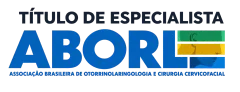
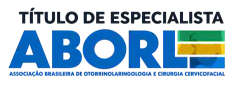
perf: defer justification tuning, lazy narrative paint, responsive procedure images
- Run paragraph justification tuning lazily: after fonts + first frame,
  one paragraph per idle callback, only near the viewport; hero paragraph
  excluded so LCP text never changes after paint.
- Run ProcedureNarrative scroll measurements only while the section is
  within one viewport of the screen.
- Add 480/720/960w WebP variants with srcset/sizes and real width/height
  for the exam and surgery narrative photos.
- Recompress the ABORL 240w seal and remove the unreferenced 1.6 MB PNG.

Local Lighthouse mobile (median of 5): score 95 -> 97, LCP 2.69 -> 2.49 s,
SI 3.34 -> 3.00 s, TBT 75 -> 21 ms, forced reflow 322 -> 0 ms.

diff --git a/src/App.tsx b/src/App.tsx
@@ -5,7 +5,7 @@ import {
   PhoneCall, Play, ShieldCheck, Sparkles, X,
 } from 'lucide-react'
 import { contactText, showPrivacyPreferences, siteConfig, trackEvent, whatsappUrl } from './config'
-import { tuneJustification } from './justifyTune'
+import { startJustificationTuning } from './justifyTune'
 
 const HYPHEN_VOWELS = 'aeiouáàâãéèêíïóòôõúüAEIOUÁÀÂÃÉÈÊÍÏÓÒÔÕÚÜ'
 const isHyphenVowel = (c: string | undefined) => !!c && HYPHEN_VOWELS.includes(c)
@@ -54,6 +54,7 @@ const examChapters = [
     title: 'Exames Otorrinolaringológicos',
     intro: [],
     image: '/images/procedimentos-videoendoscopia-nasossinusal-sao-luis.webp',
+    imageSize: [1448, 1086],
     imageAlt: 'Dr. Evaldo realiza videoendoscopia nasossinusal durante atendimento',
     imagePosition: '75% 32%',
     items: [
@@ -66,6 +67,7 @@ const examChapters = [
     title: 'Exames Otoneurológicos',
     intro: [],
     image: '/images/procedimentos-avaliacao-otoneurologica-sao-luis.webp',
+    imageSize: [1448, 1086],
     imageAlt: 'Dr. Evaldo realiza avaliação otoneurológica em paciente em São Luís',
     imagePosition: '48% center',
     items: [
@@ -79,6 +81,7 @@ const examChapters = [
     title: 'Procedimentos Ambulatoriais',
     intro: [],
     image: '/images/procedimentos-manobra-epley-vppb-ampliada.webp',
+    imageSize: [1122, 1402],
     imageAlt: 'Dr. Evaldo realiza manobra de Epley para vertigem posicional em paciente',
     imagePosition: '60% center',
     items: [
@@ -100,6 +103,7 @@ const coblationChapters = [
       'Agende uma consulta para saber se essa tecnologia pode ser indicada para o seu caso.',
     ],
     image: '/images/procedimentos-coblation-amigdalas-adenoide-sao-luis.webp',
+    imageSize: [1025, 1535],
     imageAlt: 'Dr. Evaldo, otorrinolaringologista em São Luís, com instrumento utilizado em procedimentos de Coblation®',
     imagePosition: '50% 35%',
     video: {
@@ -117,6 +121,7 @@ const surgeryChapters = [
     title: 'Cirurgias Otorrinolaringológicas',
     intro: [],
     image: '/images/procedimentos-ambiente-cirurgico.webp',
+    imageSize: [1087, 1447],
     imageAlt: 'Dr. Evaldo realiza cirurgia em ambiente cirúrgico',
     imagePosition: '50% 38%',
     items: [
@@ -129,6 +134,7 @@ const surgeryChapters = [
     title: 'Timpanotomia e Timpanoplastia',
     intro: ['Cirurgias realizadas para tratar diferentes alterações do ouvido médio e da membrana do tímpano.'],
     image: '/images/procedimentos-timpanotomia-timpanoplastia-sao-luis.webp',
+    imageSize: [1280, 960],
     imageAlt: 'Dr. Evaldo realiza cirurgia otológica com auxílio de microscópio',
     imagePosition: '70% center',
     items: [
@@ -141,6 +147,7 @@ const surgeryChapters = [
     title: 'Cirurgias da Garganta e da Laringe',
     intro: [],
     image: '/images/procedimentos-cirurgia-otorrinolaringologica-maranhao.webp',
+    imageSize: [937, 1678],
     imageAlt: 'Procedimento cirúrgico de otorrinolaringologia realizado pelo Dr. Evaldo',
     imagePosition: '50% 34%',
     items: [
@@ -914,6 +921,7 @@ type NarrativeChapter = {
   readonly title: string
   readonly intro: readonly string[]
   readonly image: string
+  readonly imageSize: readonly [number, number]
   readonly imageAlt: string
   readonly imagePosition: string
   readonly video?: {
@@ -923,6 +931,14 @@ type NarrativeChapter = {
   }
   readonly items: readonly (readonly [string, string])[]
 }
+
+// Variantes geradas como `<nome>-480.webp`, `-720.webp` e `-960.webp` (apenas larguras menores que o original).
+const NARRATIVE_IMAGE_WIDTHS = [480, 720, 960]
+const narrativeImageSizes = '(min-width: 1150px) 460px, (min-width: 768px) 40vw, min(66vw, 300px)'
+const narrativeImageSrcSet = ({ image, imageSize: [width] }: NarrativeChapter) => [
+  ...NARRATIVE_IMAGE_WIDTHS.filter((variant) => variant < width - 100).map((variant) => `${image.replace(/\.webp$/, `-${variant}.webp`)} ${variant}w`),
+  `${image} ${width}w`,
+].join(', ')
 
 function LazyProcedureVideo({ src, liteSrc, poster, ariaLabel, objectPosition, active, preloadOnDesktopSelector, preloadOnMobileSelector }: { src: string; liteSrc: string; poster: string; ariaLabel: string; objectPosition?: string; active: boolean; preloadOnDesktopSelector?: string; preloadOnMobileSelector?: string }) {
   const networkTier = useVideoNetworkTier()
@@ -1166,12 +1182,16 @@ function ProcedureNarrative({ id, variant, chapters, message, preloadVideoOnDesk
       imageElements.forEach((image, index) => image.classList.toggle('is-active', index === activeIndex))
     }
 
+    // A medicao pesada (paint) so roda com a secao a ate uma tela de distancia.
+    let near = false
+    let warmed = false
+    let warmFrame = 0
     const schedulePaint = () => {
-      if (!animationFrame) animationFrame = window.requestAnimationFrame(paint)
+      if (near && !animationFrame) animationFrame = window.requestAnimationFrame(paint)
     }
     const remeasure = () => {
       measure()
-      paint()
+      if (near) paint()
     }
     const onResize = () => {
       const viewportHeight = getViewportHeight()
@@ -1184,16 +1204,33 @@ function ProcedureNarrative({ id, variant, chapters, message, preloadVideoOnDesk
       remeasure()
     }
 
+    const proximity = new IntersectionObserver(([entry]) => {
+      near = entry.isIntersecting
+      if (!near) return
+      if (animationFrame) {
+        window.cancelAnimationFrame(animationFrame)
+        animationFrame = 0
+      }
+      paint()
+      if (!warmed) {
+        warmed = true
+        warmFrame = window.requestAnimationFrame(() => {
+          warmFrame = window.requestAnimationFrame(() => section.classList.remove('is-cold'))
+        })
+      }
+    }, { rootMargin: '100% 0px' })
+
     section.classList.add('is-cold', 'is-enhanced')
     measure()
-    paint()
+    proximity.observe(section)
     window.addEventListener('scroll', schedulePaint, { passive: true })
     window.addEventListener('resize', onResize, { passive: true })
     window.visualViewport?.addEventListener('resize', onResize, { passive: true })
     desktopQuery.addEventListener('change', remeasure)
-    window.requestAnimationFrame(() => window.requestAnimationFrame(() => section.classList.remove('is-cold')))
 
     return () => {
+      proximity.disconnect()
+      if (warmFrame) window.cancelAnimationFrame(warmFrame)
       window.removeEventListener('scroll', schedulePaint)
       window.removeEventListener('resize', onResize)
       window.visualViewport?.removeEventListener('resize', onResize)
@@ -1224,7 +1261,7 @@ function ProcedureNarrative({ id, variant, chapters, message, preloadVideoOnDesk
               preloadOnDesktopSelector={preloadVideoOnDesktop}
               preloadOnMobileSelector={preloadVideoOnMobile}
             /> : <picture className={`procedure-narrative__image ${index === 0 ? 'is-active' : ''}`} key={`${chapter.title}-${chapter.image}`}>
-              <img src={chapter.image} alt={chapter.imageAlt} width={variant === 'exams' ? 1440 : 1006} height={variant === 'exams' ? 1080 : 1788} loading="lazy" decoding="async" style={{ objectPosition: chapter.imagePosition }} />
+              <img src={chapter.image} srcSet={narrativeImageSrcSet(chapter)} sizes={narrativeImageSizes} alt={chapter.imageAlt} width={chapter.imageSize[0]} height={chapter.imageSize[1]} loading="lazy" decoding="async" style={{ objectPosition: chapter.imagePosition }} />
             </picture>)}
           </figure>
         </div>
@@ -1232,7 +1269,7 @@ function ProcedureNarrative({ id, variant, chapters, message, preloadVideoOnDesk
         <div className="procedure-narrative__chapters">
           {chapters.map((chapter, index) => <article className={`procedure-narrative__chapter ${index === 0 ? 'is-active' : ''}`} key={chapter.title}>
             <figure className="procedure-narrative__inline-figure" aria-hidden="true" style={variant === 'surgeries' ? { aspectRatio: '4 / 5' } : undefined}>
-              <img src={chapter.image} alt="" loading="lazy" decoding="async" style={{ objectPosition: chapter.imagePosition }} />
+              <img src={chapter.image} srcSet={narrativeImageSrcSet(chapter)} sizes={narrativeImageSizes} alt="" width={chapter.imageSize[0]} height={chapter.imageSize[1]} loading="lazy" decoding="async" style={{ objectPosition: chapter.imagePosition }} />
             </figure>
             {index === 0 ? <h2 id={`${id}-title`}>{chapter.title}</h2> : <h3>{chapter.title}</h3>}
             {chapter.intro.length > 0 && <div className="procedure-narrative__intro">{chapter.intro.map((paragraph) => <p key={paragraph}>{sh(paragraph)}</p>)}</div>}
@@ -1412,19 +1449,19 @@ export default function App() {
   }, [])
 
   useEffect(() => {
+    // So depois das fontes e do primeiro frame: o ajuste mede o texto final e nao atrasa a pintura.
+    let cancelled = false
     let frame = 0
-    let lastWidth = window.innerWidth
-    const schedule = () => {
-      cancelAnimationFrame(frame)
-      frame = requestAnimationFrame(tuneJustification)
-    }
-    const onResize = () => {
-      if (window.innerWidth !== lastWidth) { lastWidth = window.innerWidth; schedule() }
-    }
-    schedule()
-    document.fonts?.ready.then(schedule)
-    window.addEventListener('resize', onResize)
-    return () => { cancelAnimationFrame(frame); window.removeEventListener('resize', onResize) }
+    let timer = 0
+    let stop: (() => void) | undefined
+    const fontsReady = document.fonts?.ready ?? Promise.resolve()
+    fontsReady.then(() => {
+      if (cancelled) return
+      frame = requestAnimationFrame(() => {
+        timer = window.setTimeout(() => { if (!cancelled) stop = startJustificationTuning() })
+      })
+    })
+    return () => { cancelled = true; cancelAnimationFrame(frame); clearTimeout(timer); stop?.() }
   }, [])
 
   return <>

diff --git a/src/justifyTune.ts b/src/justifyTune.ts
@@ -1,7 +1,7 @@
 // Ajuste fino da justificacao: para cada paragrafo, testa pequenas variacoes de
 // word-spacing/letter-spacing e mantem a que deixa os espacos entre palavras mais uniformes.
+// O paragrafo do hero fica de fora: ele ja usa o candidato padrao via CSS e nao deve mudar depois do LCP.
 const SELECTOR = [
-  '.hero-copy > p',
   '.section-title p',
   '.specialty-card p',
   '.procedure-narrative__intro p',
@@ -65,16 +65,58 @@ function tuneElement(el: HTMLElement): void {
   el.style.letterSpacing = best[1]
 }
 
-let run = 0
+type IdleHandle = number
+const requestIdle: (callback: () => void) => IdleHandle = typeof window !== 'undefined' && 'requestIdleCallback' in window
+  ? (callback) => window.requestIdleCallback(callback, { timeout: 1500 })
+  : (callback) => window.setTimeout(callback, 60)
+const cancelIdle: (handle: IdleHandle) => void = typeof window !== 'undefined' && 'cancelIdleCallback' in window
+  ? (handle) => window.cancelIdleCallback(handle)
+  : (handle) => window.clearTimeout(handle)
 
-// Processa poucos paragrafos por vez para nao travar a thread principal.
-export function tuneJustification(): void {
-  const token = ++run
-  const queue = Array.from(document.querySelectorAll<HTMLElement>(SELECTOR))
-  const step = () => {
-    if (token !== run) return
-    queue.splice(0, 4).forEach(tuneElement)
-    if (queue.length) setTimeout(step, 0)
+// Ajusta sob demanda: cada paragrafo so e medido quando se aproxima da tela, um por
+// callback ocioso, para que o ajuste nunca concorra com a primeira pintura nem com o scroll.
+export function startJustificationTuning(): () => void {
+  const queue: HTMLElement[] = []
+  let idleHandle: IdleHandle = 0
+  let observer: IntersectionObserver | null = null
+  let lastWidth = window.innerWidth
+
+  const pump = () => {
+    idleHandle = 0
+    const element = queue.shift()
+    if (element?.isConnected) tuneElement(element)
+    if (queue.length) idleHandle = requestIdle(pump)
   }
-  step()
+
+  const observe = () => {
+    observer?.disconnect()
+    queue.length = 0
+    if (idleHandle) { cancelIdle(idleHandle); idleHandle = 0 }
+    const current = new IntersectionObserver((entries) => {
+      if (current !== observer) return
+      entries.forEach((entry) => {
+        if (!entry.isIntersecting) return
+        current.unobserve(entry.target)
+        queue.push(entry.target as HTMLElement)
+      })
+      if (queue.length && !idleHandle) idleHandle = requestIdle(pump)
+    }, { rootMargin: '100% 50%' })
+    observer = current
+    document.querySelectorAll<HTMLElement>(SELECTOR).forEach((element) => current.observe(element))
+  }
+
+  const onResize = () => {
+    if (window.innerWidth === lastWidth) return
+    lastWidth = window.innerWidth
+    observe()
+  }
+
+  observe()
+  window.addEventListener('resize', onResize, { passive: true })
+  return () => {
+    observer?.disconnect()
+    observer = null
+    if (idleHandle) cancelIdle(idleHandle)
+    window.removeEventListener('resize', onResize)
+  }
 }
